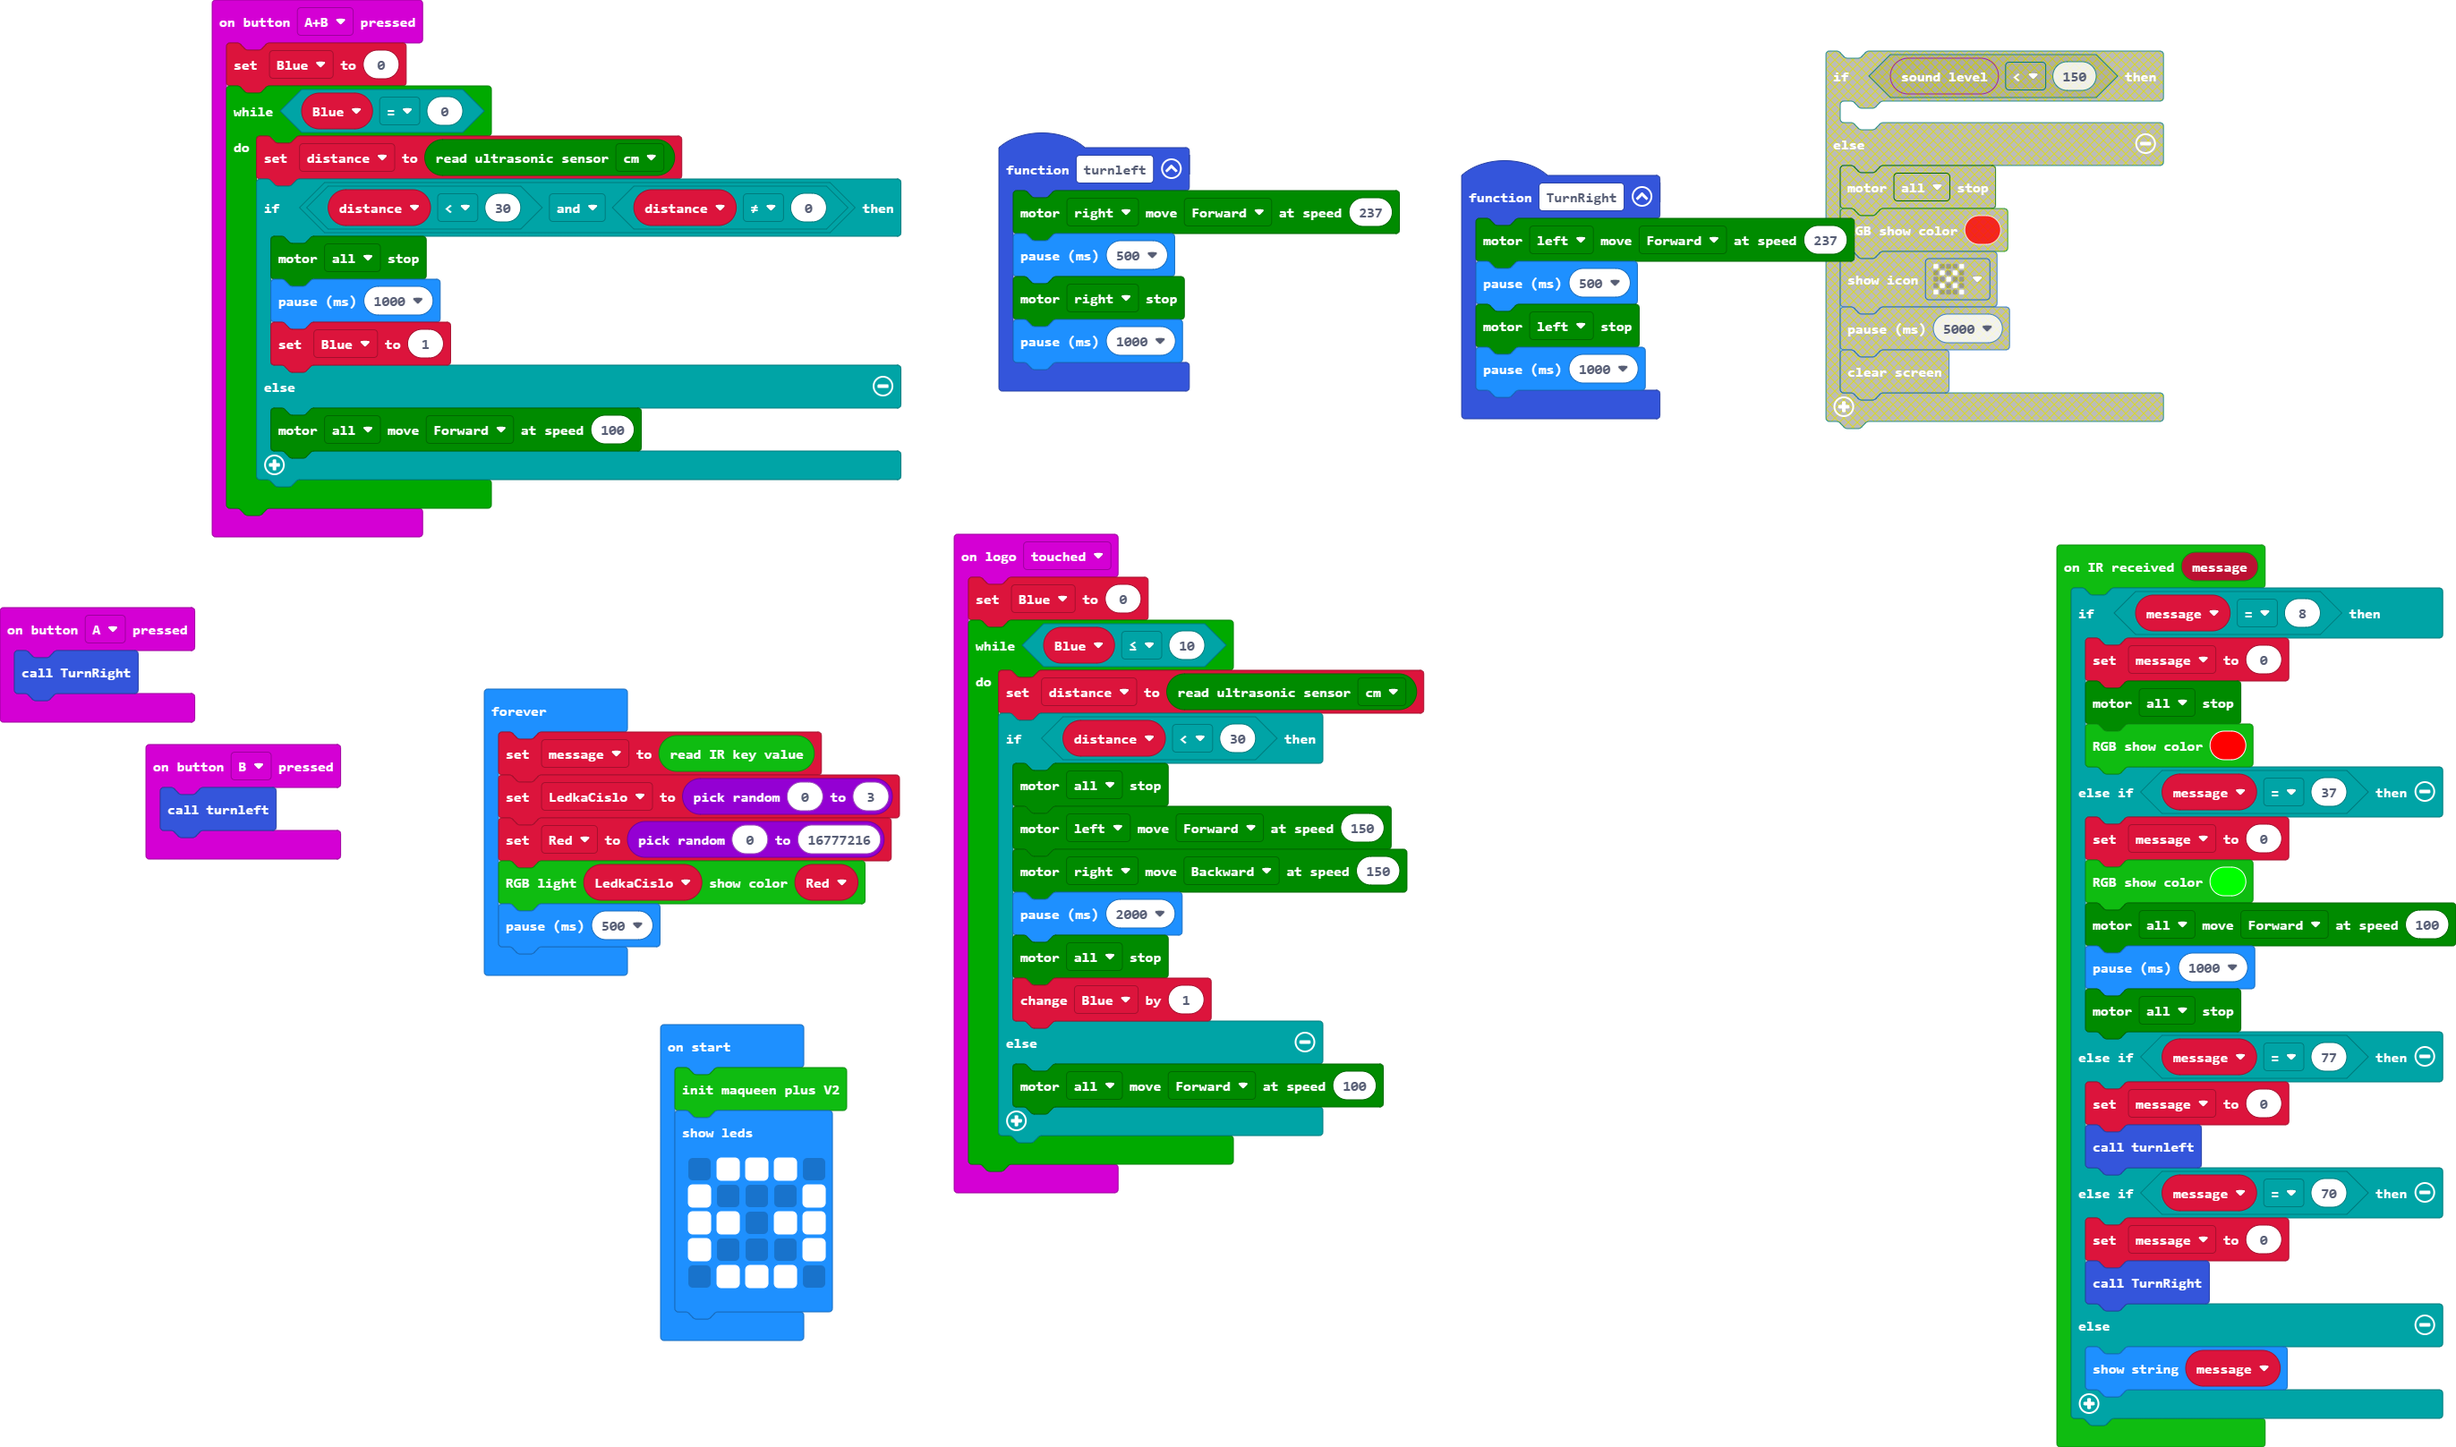
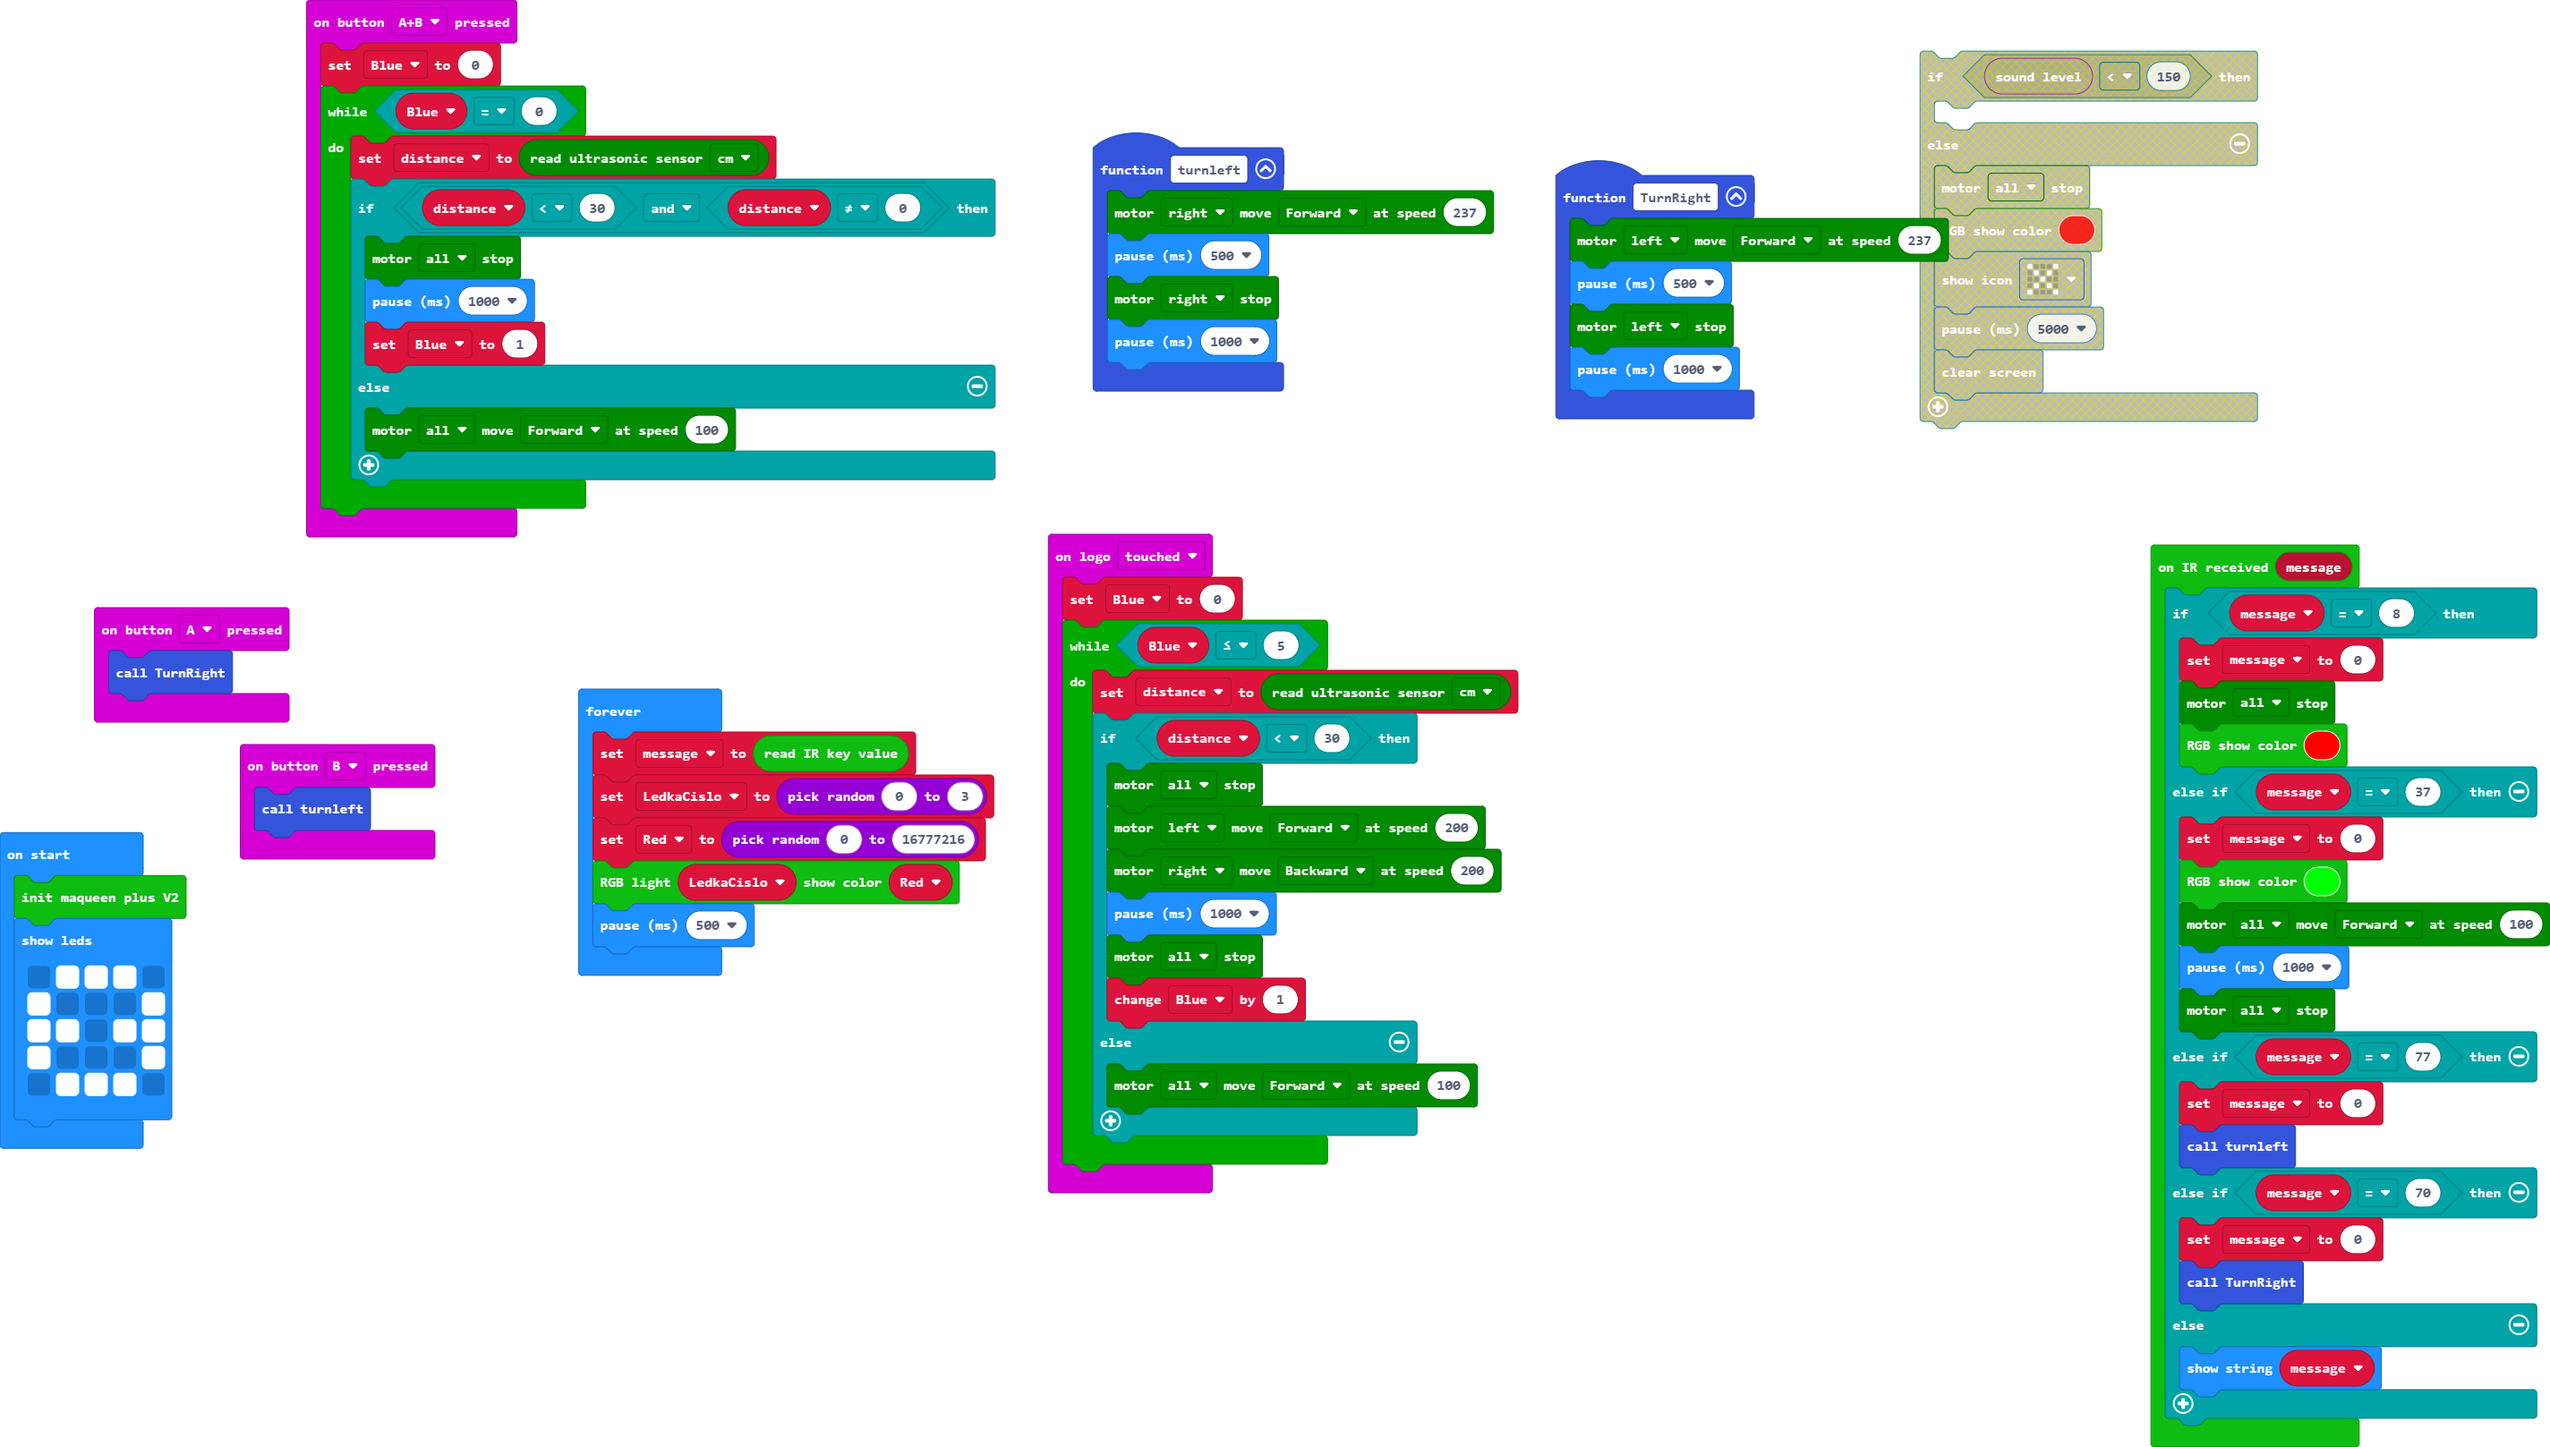
Update main.blocks, main.ts

diff --git a/main.ts b/main.ts
@@ -40,13 +40,13 @@ input.onButtonPressed(Button.B, function () {
 })
 input.onLogoEvent(TouchButtonEvent.Touched, function () {
     Blue = 0
-    while (Blue <= 10) {
+    while (Blue <= 5) {
         distance = maqueen.Ultrasonic(PingUnit.Centimeters)
         if (distance < 30) {
             maqueen.motorStop(maqueen.Motors.All)
-            maqueen.motorRun(maqueen.Motors.M1, maqueen.Dir.CW, 150)
-            maqueen.motorRun(maqueen.Motors.M2, maqueen.Dir.CCW, 150)
-            basic.pause(2000)
+            maqueen.motorRun(maqueen.Motors.M1, maqueen.Dir.CW, 200)
+            maqueen.motorRun(maqueen.Motors.M2, maqueen.Dir.CCW, 200)
+            basic.pause(1000)
             maqueen.motorStop(maqueen.Motors.All)
             Blue += 1
         } else {
